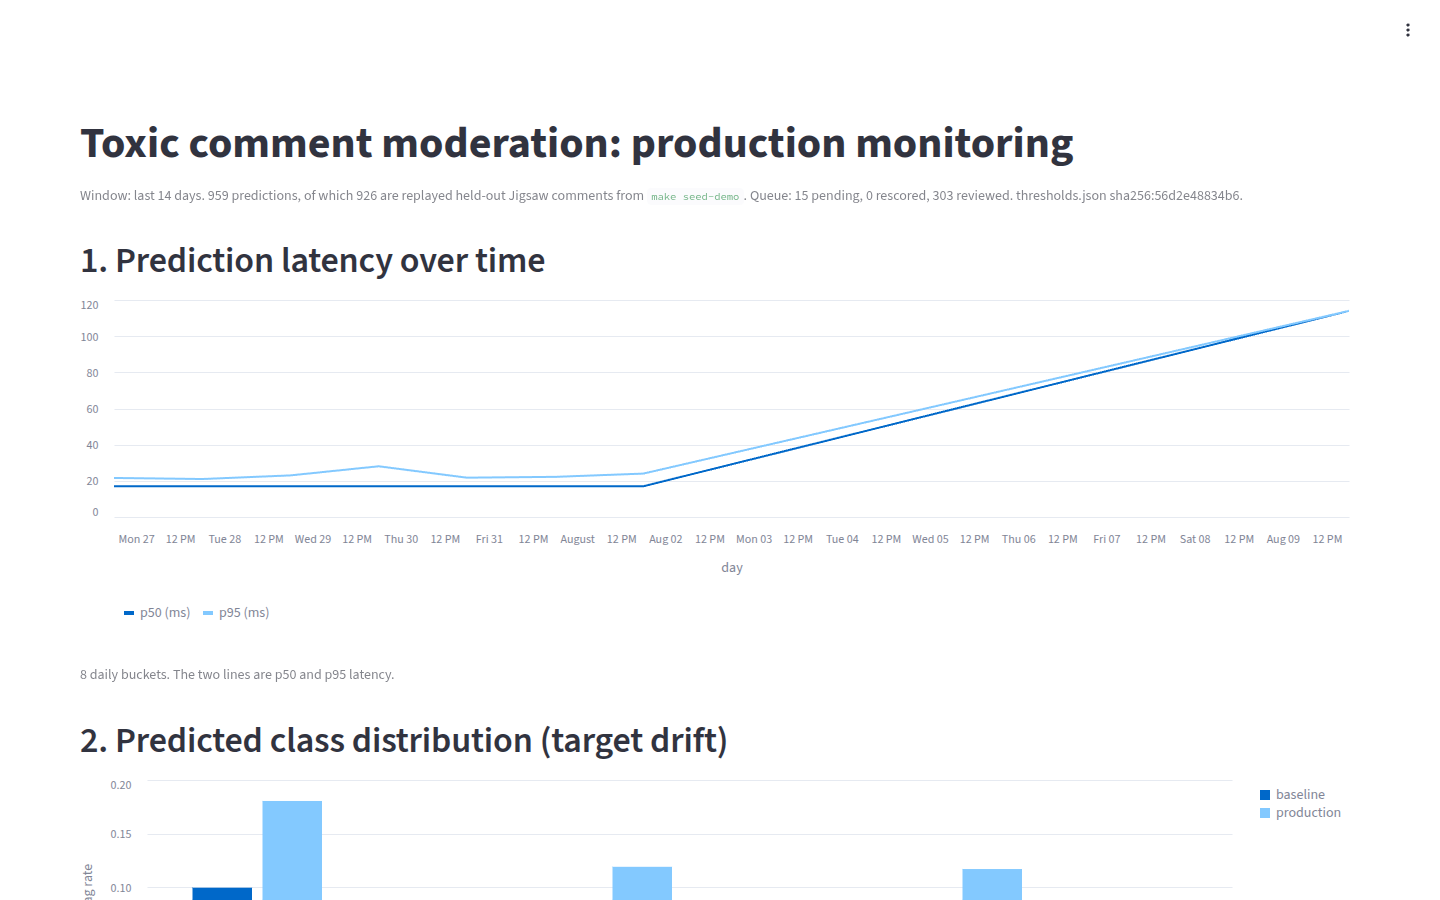
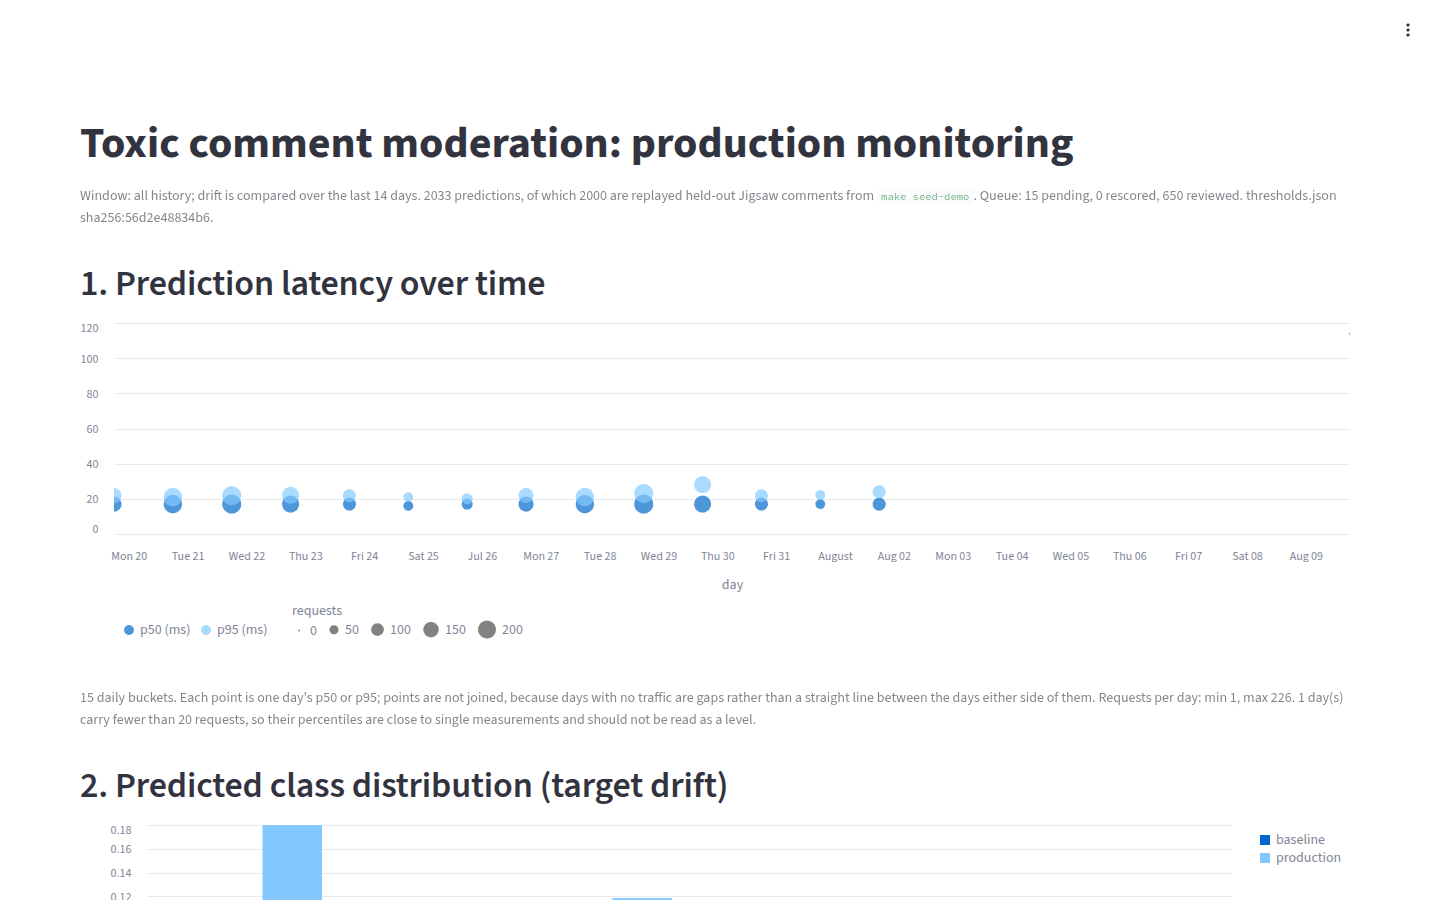
Rewrite the security practices as claims with a status and verifiable evidence
Nine practices were asserted in the present tense before any code existed, and
two were contradicted by the project's own plan: ingress restricted to one
operator address, while the deliverable requires a grader-reachable URL, and no
third-party data held, while /predict stores submitted comments for thirty days.
Both corrections say what was false rather than quietly dropping the sentence.

Each claim now carries a status from a closed set and a path, and the test that
matters asserts every cited path exists. An earlier draft of this table cited six
that had never been written. Two of them are now real: docs/tls-decision.md, and
docs/runbooks/no-ssh-debug.md, which infra/aws/verify_deploy.sh has been printing
as the operator's only recovery route while a test asserted the pointer was
printed and nothing asserted the target existed.

The cleartext row is kept and marked Not true rather than deleted, and the
ingress row says Partial because demo.auto.tfvars opened the listeners to the
internet. A policy listing only the controls that pass is an advertisement.

diff --git a/tests/unit/test_security_md.py b/tests/unit/test_security_md.py
@@ -1,0 +1,120 @@
+"""H33. Every claim in a public security policy has to be true of the built system.
+
+The practices section used to be nine sentences in the present tense, written before any
+code existed. All nine were aspirations at the time, and two were contradicted by the
+project's own plan: ingress "restricted to a single operator address" while the deliverable
+requires a grader-reachable URL, and "holds no third-party user data" while `/predict` is a
+public endpoint that stores submitted comments for thirty days.
+
+A public security policy that is wrong is worse than no security policy, because a reader
+has no way to tell which sentences were checked. So each claim now carries a status and a
+path, and these tests assert the shape rather than the prose: a status from a closed set, an
+evidence reference, and -- the one that actually bites -- that every path cited as evidence
+exists on disk.
+"""
+
+import re
+from pathlib import Path
+
+SECURITY = Path("SECURITY.md")
+ALLOWED_STATUS = {"Enforced", "Implemented", "Partial", "Planned", "Not true"}
+
+
+def _body() -> str:
+    return SECURITY.read_text(encoding="utf-8")
+
+
+def _section() -> str:
+    return _body().split("## Practices in this repository")[1].split("\n## ")[0]
+
+
+def _practice_rows() -> list[list[str]]:
+    rows = []
+    for line in _section().splitlines():
+        if line.startswith("|") and "---" not in line:
+            cells = [cell.strip() for cell in line.strip("|").split("|")]
+            if cells and cells[0].lower() not in {"claim", "practice"}:
+                rows.append(cells)
+    return rows
+
+
+def test_the_practices_section_is_a_table_not_a_bullet_list():
+    section = _section()
+    assert "|" in section, "the practices are still unqualified prose"
+    assert "Status" in section and "Evidence" in section
+
+
+def test_every_practice_row_has_a_status_and_evidence():
+    rows = _practice_rows()
+    assert len(rows) >= 9, f"only {len(rows)} practices are accounted for"
+    for claim, status, evidence in ((r[0], r[1], r[2]) for r in rows):
+        bare = status.replace("*", "").split("--")[0].split("—")[0].strip()
+        assert bare in ALLOWED_STATUS, f"{claim}: bad status '{status}'"
+        assert evidence, f"{claim}: no evidence"
+        assert re.search(r"[`/.]", evidence), f"{claim}: evidence is not a path or a command"
+
+
+def test_evidence_paths_that_look_like_files_exist():
+    """The one that bites. An earlier draft of this table cited six paths that had never
+    been written, including a runbook a shipping script prints as the operator's only
+    recovery route."""
+    for row in _practice_rows():
+        for token in re.findall(r"`([^`]+)`", row[2]):
+            if "/" in token and " " not in token and not token.startswith("aws "):
+                path = token.split("::")[0].split(":")[0]
+                assert Path(path).exists(), f"evidence path missing: {token}"
+
+
+def test_the_two_contradicted_claims_are_corrected():
+    body = _body()
+    assert "restricted to a single operator address" not in body, (
+        "contradicted by the grader-reachable demo window"
+    )
+    assert "holds no third-party user data" not in body, (
+        "contradicted by a public /predict that stores submitted comments"
+    )
+
+
+def test_the_demo_window_is_described_honestly():
+    body = _body().lower()
+    assert "demo window" in body
+    assert "8503" in body, "say which port is NEVER opened"
+
+
+def test_the_data_handling_is_described_honestly():
+    body = _body().lower()
+    assert "/predict" in body
+    assert "30 days" in body or "input_text_retention_days" in body
+
+
+def test_the_model_card_it_cites_exists():
+    assert "MODEL_CARD.md" in _body()
+    assert Path("MODEL_CARD.md").exists()
+
+
+def test_no_present_tense_security_claim_survives_outside_the_table():
+    """The failure mode was nine unqualified assertions. They do not come back as prose."""
+    for line in _section().splitlines():
+        stripped = line.strip()
+        if stripped.startswith("- ") and re.search(r"\b(is|are|runs|uses|exists)\b", stripped):
+            raise AssertionError(f"unqualified claim outside the table: {stripped}")
+
+
+def test_the_cleartext_claim_is_marked_not_true_rather_than_omitted():
+    """The temptation is to drop the row. A security policy that lists only the controls
+    that pass is an advertisement."""
+    rows = [r for r in _practice_rows() if "encrypt" in r[0].lower()]
+    assert rows, "no row about transport encryption at all"
+    assert any("Not true" in r[1] for r in rows), (
+        "the endpoints serve cleartext HTTP; the row must say so"
+    )
+
+
+def test_the_ingress_row_reflects_the_demo_window_being_open():
+    """`demo.auto.tfvars` opened the three graded listeners to 0.0.0.0/0 on 2026-08-10. A
+    row still claiming operator-only ingress would be false the moment it was written."""
+    rows = [r for r in _practice_rows() if "ingress" in r[0].lower()]
+    assert rows, "no row about ingress"
+    assert any("Partial" in r[1] for r in rows), (
+        "ingress is open to the internet during the demo window; 'Enforced' overstates it"
+    )

diff --git a/SECURITY.md b/SECURITY.md
@@ -4,7 +4,15 @@
 
 `mlops-toxic-moderation` is a university course project (COMP 4450, MLOps). It builds a multi-label toxic comment moderation system: a FastAPI service, a Streamlit interface, a monitoring dashboard, and a Postgres database, deployed to a dedicated AWS account.
 
-**It is not a production service and is not offered to anyone as a service.** The AWS deployment is created and destroyed between work sessions, its network ingress is restricted to a single operator address, and it holds no third-party user data. Read that as context for the scope and the response times below, both of which are deliberately honest rather than aspirational.
+**It is not a production service and is not offered to anyone as a service.** The AWS deployment exists only for the duration of the course project and a stated demo window, and is destroyed afterwards.
+
+During that window the moderation API on 8000, the user interface on 8501, and the monitoring dashboard on 8502 are deliberately reachable from the whole internet, over **cleartext HTTP**, so that the work can be graded. That is a decision with a written record and a stated residual risk: `docs/tls-decision.md`. The reviewer queue on port 8503 is never opened — `toxic-mod-reviewer` is a security group with no ingress rule on it at all — and is reached only through an authenticated SSM port-forward.
+
+`/predict` accepts arbitrary text from anyone holding the demo API key and stores it in the database for 30 days before a scheduled purge nulls the text, so the project **does** hold third-party submissions for a bounded period.
+
+An earlier version of this file said the opposite on both counts — that no third-party data was held, and that the listeners answered only one operator address. Neither was true when it was written, and neither is true now. The practices table below exists so that a reader can tell which sentences here were checked.
+
+Read that as context for the scope and the response times below, both of which are deliberately honest rather than aspirational.
 
 Maintained by one person. Reports get a real reply, not an SLA-backed one.
 
@@ -71,14 +79,26 @@ This statement covers the maintainer only. It cannot and does not bind AWS, GitH
 
 ## Practices in this repository
 
-Stated so you know what has already been considered, and where to look for gaps:
+Stated as claims with a status and a way to check each one, rather than as assertions. An earlier version of this file listed nine practices in the present tense before any code existed, and two of them were contradicted by the project's own plan.
 
-- No static AWS credentials exist. Human access uses IAM Identity Center, CI uses GitHub OIDC with separate read and deploy roles, and compute uses instance profiles.
-- A service control policy denies `iam:CreateUser` and `iam:CreateAccessKey` in the deployment account, so the previous point is enforced rather than merely intended.
-- Deployment runs over AWS Systems Manager. No security group opens port 22 and no SSH key exists.
-- Models load through `skops`, `safetensors`, and ONNX with SHA-256 digest verification. Never `pickle` or `joblib`.
-- Secrets live in AWS Secrets Manager. The database password is generated and held by RDS and never enters Terraform state.
-- CI runs `ruff`, `pytest`, `gitleaks`, and `semgrep` on every pull request, and GitHub secret scanning with push protection is enabled on this repository.
-- Dependencies are pinned.
+`Enforced` means a test or a policy fails if the claim stops being true. `Partial` means it holds under stated conditions that are not always met. `Not true` means exactly that, and the row is kept rather than deleted — a security policy that lists only the controls that pass is an advertisement.
 
-If you find a place where one of these claims is not true, that is a valid report and a useful one.
+| Claim | Status | Evidence |
+|---|---|---|
+| No static AWS credential exists in the deployment account. Humans use IAM Identity Center, CI uses GitHub OIDC, EC2 uses instance profiles | Enforced | `aws iam list-users` returns empty; `infra/aws/scp-sandbox-guardrails.json` denies `iam:CreateUser` and `iam:CreateAccessKey`; `tests/unit/test_scp_policy.py` |
+| A service control policy denies credential creation, non-Graviton instance types, public RDS, Aurora, and detective-control tampering | Enforced | `infra/aws/scp-sandbox-guardrails.json`; five denials probed against the live account in `docs/evidence/a1-scp-denials.md` |
+| No security group opens port 22, and no SSH key exists. Every remote action is AWS Systems Manager | Enforced | `infra/terraform/network.tf` carries no rule for port 22; recovery path in `docs/runbooks/no-ssh-debug.md` |
+| Models load through `skops` with a static trusted-type allowlist and a SHA-256 check against a digest committed to git, and fail closed on mismatch. Never `pickle` or `joblib` | Enforced | `backend/model_loader.py`; `tests/unit/test_model_loader.py`; digest of record in `MODEL_CARD.md` |
+| No credential value ever travels as an SSM `SendCommand` parameter or a Docker build argument | Enforced | `tests/infra/test_roll_secrets.py`; `tests/unit/test_buildkit_secrets.py` |
+| Secrets live in AWS Secrets Manager and are read on the instance under its own profile. The database password is generated and held by RDS and never enters Terraform state | Enforced | `infra/deploy/instance/roll.sh`; `manage_master_user_password` in `infra/terraform/data.tf` |
+| CI runs `ruff`, `pytest`, `gitleaks` and `semgrep` on every pull request, and a failing check blocks the merge | Enforced | `.github/workflows/ci.yml`; blocked-merge evidence in `docs/evidence/ci-gate.md` |
+| Every GitHub Action is pinned to a full commit SHA, and no workflow job inherits write permission | Enforced | `tests/unit/test_pin_actions.py`; `tests/unit/test_deploy_workflow.py` |
+| Python dependencies install from a hashed lock with `--require-hashes`, and container base images are pinned by digest | Enforced | `requirements/dev.lock`; `tests/unit/test_dependency_locks.py`; `tests/unit/test_dockerfile_hygiene.py` |
+| `/predict` enforces a demo API key, a per-key rate limit, and an input-size cap | Enforced | `backend/auth.py`, `backend/ratelimit.py`, `backend/config.py`; `tests/integration/test_predict_abuse_controls.py` |
+| The reviewer queue on 8503 is never reachable from the internet | Enforced | `infra/exposure.py`; `tests/unit/test_exposure_contract.py`; `tests/integration/test_deployed_traversal.py`; `tests/unit/test_demo_window.py` |
+| Ingress to the three graded listeners is restricted to the operator address | **Partial** — open to `0.0.0.0/0` since 2026-08-10 for the demo window, by deliberate committed change | `infra/terraform/demo.auto.tfvars`; `tests/unit/test_demo_window.py`; rationale in `docs/tls-decision.md` |
+| Submitted comment text is retained for 30 days and then purged, and is never written to Weights & Biases, to application logs, or to any screenshot | Enforced | `backend/retention.py`; `tests/integration/test_retention.py`; `scripts/redact.py` and `tests/unit/test_redact.py` for the publication path |
+| Traffic between the browser and the service is encrypted | **Not true** — the three demo endpoints are plain HTTP. Accepted, with the residual risk written down | `docs/tls-decision.md` |
+| A CycloneDX SBOM and AIBOM are published with each release | **Planned** — specified, not yet generated | Task 23 of `docs/superpowers/plans/2026-07-31-phase-5-deploy-docs.md` |
+
+If you find a place where one of these rows is not true, that is a valid report and a useful one.

diff --git a/docs/runbooks/no-ssh-debug.md b/docs/runbooks/no-ssh-debug.md
@@ -1,0 +1,187 @@
+# Runbook: debugging three instances you cannot SSH into
+
+`infra/aws/verify_deploy.sh` prints a pointer to this file when the deploy gate fails, and
+`infra/aws/aws_up.sh` prints it when a boot marker never appears. Those are the two moments
+this document exists for.
+
+**There is no SSH, and that is not an oversight.** No security group opens port 22, no key
+pair exists, and `infra/aws/scp-sandbox-guardrails.json` denies the credential-creation calls
+that would let you make one. Every remote action below is Systems Manager. If SSM is broken
+on an instance, that instance is unreachable by design, and the last section is how you get
+out of that.
+
+Work the ladder in order. Each rung tells you whether the next one is worth trying, and the
+early rungs cost seconds.
+
+---
+
+## Rung 0: is this actually broken?
+
+```bash
+export AWS_PROFILE=rc-mlops AWS_REGION=us-west-2
+make deploy-verify        # infra/aws/verify_live.sh
+```
+
+`verify_deploy.sh` checks all three endpoints and does **not** stop at the first failure, so
+one run tells you whether you have one broken tier or three. One broken tier and two healthy
+ones is a different problem from three broken tiers, and the difference is usually "the app"
+versus "the account".
+
+If all three fail at once, suspect ingress before you suspect the application — the listeners
+answer only the CIDRs in `operator_cidrs` plus `demo_cidrs`, and a changed home IP presents
+exactly as a dead stack:
+
+```bash
+aws ec2 describe-security-groups \
+  --filters Name=group-name,Values=toxic-mod-frontend \
+  --query 'SecurityGroups[0].IpPermissions[].IpRanges[].CidrIp' --output text
+curl -s https://checkip.amazonaws.com    # compare
+```
+
+## Rung 1: is the instance running, and does SSM see it?
+
+```bash
+aws ec2 describe-instances \
+  --filters Name=tag:Component,Values=backend Name=instance-state-name,Values=running \
+  --query 'Reservations[].Instances[].[InstanceId,State.Name,PublicIpAddress]' --output text
+
+aws ssm describe-instance-information \
+  --query 'InstanceInformationList[].[InstanceId,PingStatus,LastPingDateTime]' --output table
+```
+
+**`PingStatus` is the fork in the road.**
+
+- `Online` → the agent is alive, you have a shell by proxy. Go to rung 2.
+- Absent or `ConnectionLost` → you cannot run anything on the box. Skip to rung 4.
+
+An instance that is `running` but missing from `describe-instance-information` usually means
+user data failed before the agent could register, or the instance profile lost
+`AmazonSSMManagedInstanceCore`.
+
+## Rung 2: did user data finish?
+
+The last line of user data writes `/toxic/boot/<component>` to Parameter Store. That
+parameter existing is the whole claim that boot completed.
+
+```bash
+for c in backend frontend monitoring; do
+  printf '%s: ' "$c"
+  aws ssm get-parameter --name "/toxic/boot/$c" --query Parameter.Value --output text 2>&1 | head -1
+done
+```
+
+Missing marker means user data did not reach its end. The console output carries the reason
+and needs no agent at all:
+
+```bash
+aws ec2 get-console-output --instance-id i-... --output text | grep -iE \
+  'TOXIC-USER-DATA-COMPLETE|error|failed|cloud-init'
+```
+
+`TOXIC-USER-DATA-COMPLETE` is the string user data prints last. Present in the console but no
+SSM parameter means the write failed — look at the instance profile, not at the boot script.
+
+## Rung 3: SSM is Online — get the application's own account
+
+Run Command is the shell. Nothing here needs a secret as an argument; the instance reads its
+own credentials.
+
+```bash
+aws ssm send-command \
+  --document-name AWS-RunShellScript \
+  --targets Key=tag:Component,Values=backend \
+  --parameters 'commands=[
+    "systemctl is-active toxic-stack.service || systemctl status toxic-stack.service --no-pager -l | tail -40",
+    "docker ps -a --format \"{{.Names}}\t{{.Status}}\"",
+    "docker compose -f /opt/toxic/compose.backend.yml logs --tail=80 --no-color"
+  ]' --query 'Command.CommandId' --output text
+```
+
+Then read it back with the returned id:
+
+```bash
+aws ssm get-command-invocation --command-id <id> --instance-id i-... \
+  --query '{status:Status,out:StandardOutputContent,err:StandardErrorContent}' --output text
+```
+
+What the common shapes mean:
+
+| Symptom | Where to look |
+|---|---|
+| `toxic-stack.service` inactive | The unit is `infra/deploy/toxic-stack.service`. It brings the stack up at boot; if it never started, boot is the problem, not the app |
+| Container restarting in a loop | `docker compose logs`. A digest mismatch on the model artifact is fail-closed by design and says so explicitly |
+| Container up, endpoint refused | Port binding versus security group. `docker ps` shows the published port; compare with `infra/exposure.py` |
+| `BaselineMissingError` on monitoring | `thresholds.json` / `baseline_flag_rates.json` were not fetched to `/var/lib/toxic/artifacts`. `roll.sh` fetches them; the drift panel is deliberately fail-closed |
+
+CloudWatch has the same logs without a round trip, which is often faster:
+
+```bash
+aws logs tail /toxic-mod/backend --since 30m --format short
+```
+
+## Rung 4: SSM is not Online
+
+You cannot run commands. Two things still work, in this order.
+
+**Console output** needs nothing on the instance:
+
+```bash
+aws ec2 get-console-output --instance-id i-... --output text | tail -100
+```
+
+**The EC2 Serial Console** needs the account setting enabled and a password set on a user;
+on a locked-down AL2023 image with no configured user this is frequently a dead end. Try it,
+but do not spend long — rung 5 is usually faster and always works.
+
+## Rung 5: stop debugging, replace the instance
+
+An instance you cannot reach is not worth a long diagnosis when the fleet is cattle and the
+state is all elsewhere: the database is RDS, the artifacts are S3 and ECR, and the
+configuration is Parameter Store and Secrets Manager. Nothing that matters lives on the disk.
+
+Two ways back, cheapest first.
+
+**Re-roll the current SHA** — if the box is up but the app is wrong:
+
+```bash
+make aws-up            # brings the stack up and gates on the three health endpoints
+```
+
+**Roll back to the previous SHA** — if the current deploy is the problem. This never touches
+Terraform:
+
+```bash
+aws ssm get-parameter --name /toxic/deploy/previous-sha --query Parameter.Value --output text
+make rollback SHA=<that sha>
+```
+
+`infra/ROLLBACK.md` is the full procedure and has been rehearsed against the live stack;
+`docs/evidence/p5-rollback-rehearsal.md` is the record.
+
+**Replace the instance** — last resort, and an operator action from an Identity Center
+session because the CI deploy role is denied `ec2:RunInstances` by
+`infra/terraform/oidc.tf`:
+
+```bash
+cd infra/terraform
+terraform apply -replace='aws_instance.this["backend"]' \
+  -var 'operator_cidrs=["<your-ip>/32"]' -var 'alert_email=...'
+```
+
+Expect roughly six minutes to a healthy endpoint. The Elastic IP re-attaches, so the URLs in
+`README.md` stay correct.
+
+---
+
+## What to capture before you fix it
+
+If you are going to replace the instance, take the console output first. It is the only
+artifact that does not survive termination:
+
+```bash
+aws ec2 get-console-output --instance-id i-... --output text \
+  > "console-$(date -u +%Y%m%dT%H%M%SZ).txt"
+```
+
+Redact before it goes anywhere public — `scripts/redact.py` removes account ids and Elastic
+IPs, both of which appear in console output as a matter of course.
